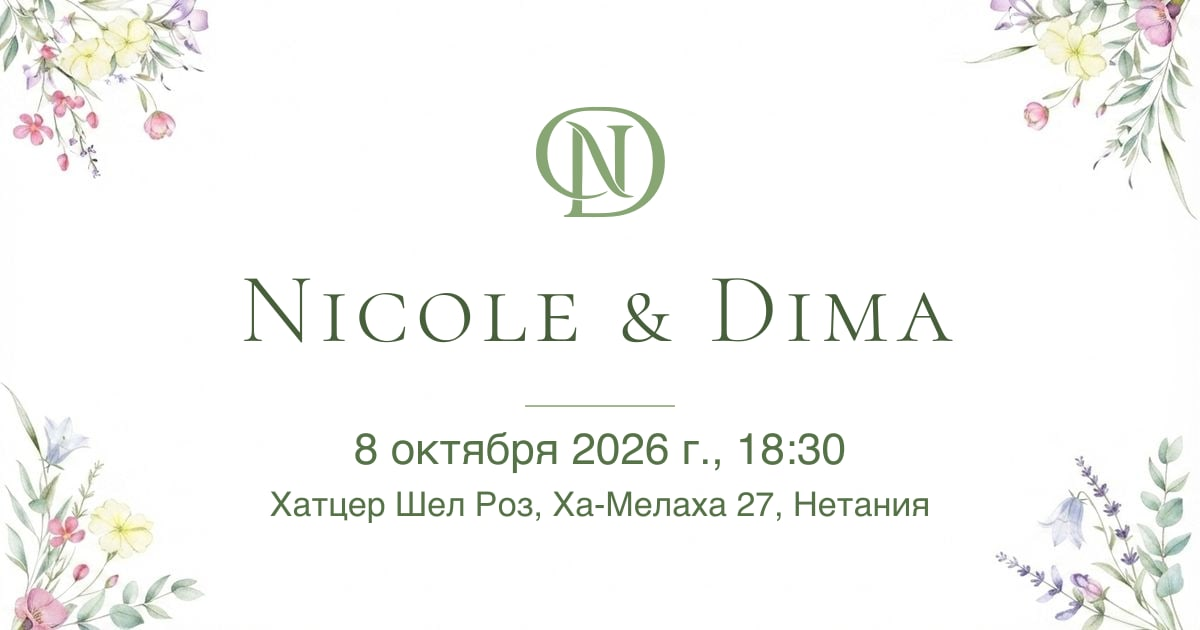
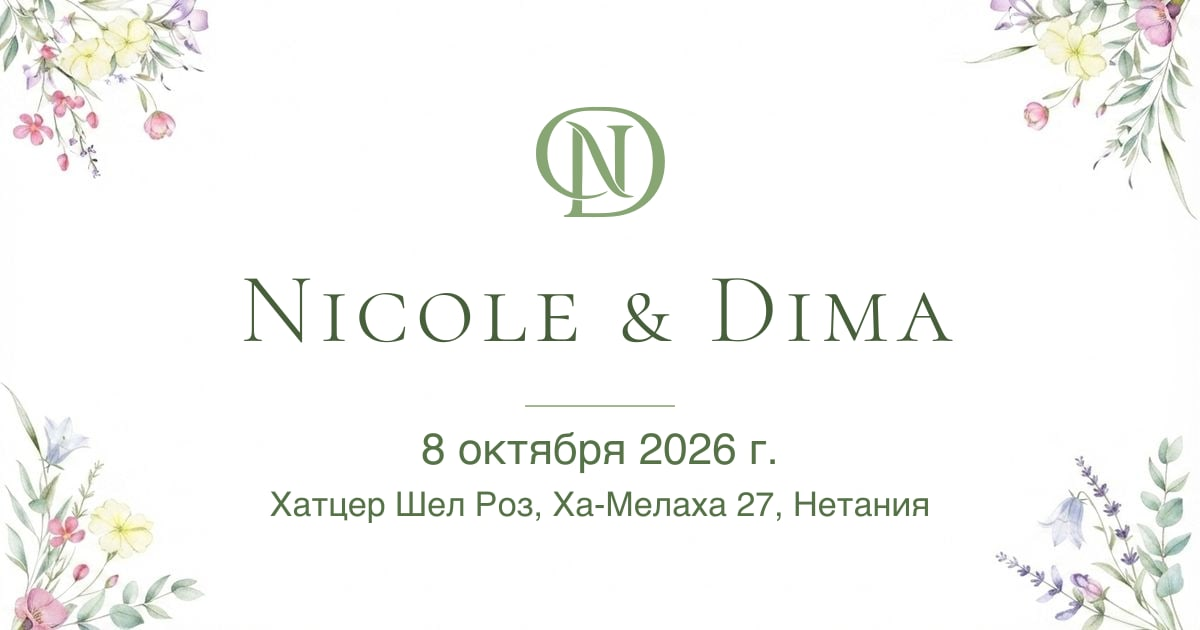
Drop the hour from the WhatsApp preview, and version the card
The preview card paints the date onto the JPEG at build time, so it had been
advertising 18:30 since the cards were last built on 2026-08-02 while every
screen read 19:30. A single hour on the card is wrong in principle as well as
in fact: the time a guest needs is the pair in the admin's message template
(קבלת פנים: 19:30 | חופה: 20:30), which one painted line cannot say. Both the
card and the description beneath it now carry the date alone. The guest page
itself still shows the full date and time.

Rebuilding the card fixed nothing on its own, because WhatsApp caches a preview
image by URL and the path never changed — the corrected card would have shipped
and the old picture kept appearing, with nothing to show why. The image URL now
carries ?v=<content hash>, written into lib/og-card-version.ts by the build
script from the bytes it just produced. Stamping it there rather than bumping a
constant by hand means it cannot drift from the file; hashing the output rather
than the clock means an identical rebuild throws no cache away.

Changed region(s): [[0.2775, 0.6635, 0.7092, 0.754]]

diff --git a/scripts/build-og-card.ts b/scripts/build-og-card.ts
@@ -18,13 +18,14 @@
  * imported by anything under app/ or lib/ that runs at request time.
  */
 
-import { readFileSync, statSync } from 'node:fs'
+import { createHash } from 'node:crypto'
+import { readFileSync, statSync, writeFileSync } from 'node:fs'
 import path from 'node:path'
 import sharp from 'sharp'
 import { createElement } from 'react'
 import { ImageResponse } from 'next/og'
 import { createClient } from '@supabase/supabase-js'
-import { formatDateTime } from '../lib/datetime'
+import { formatDate } from '../lib/datetime'
 import { localeFor } from '../lib/strings'
 import { venueForDisplay } from '../lib/venue'
 import { LANGUAGES, type Language, type WeddingConfig } from '../lib/types'
@@ -149,9 +150,13 @@ async function readCardText(language: Language): Promise<CardText> {
     // The card's own Latin lettering wins; config is the fallback. Identical in
     // both languages — the invitation is lettered "NICOLE & DIMA".
     couple: OG_COUPLE_NAMES.trim() || (data.couple_names ?? '').trim(),
-    // Via lib/datetime, so the card reads the same instant as every screen —
-    // and in the reader's language, which is the point of building two cards.
-    when: formatDateTime(data.wedding_date_time, localeFor(language)),
+    // Via lib/datetime, so the card reads the same day as every screen — and in
+    // the reader's language, which is the point of building two cards. DATE
+    // ONLY, no clock time: the hour a guest needs is the one in the admin's own
+    // message ("קבלת פנים: 19:30 | חופה: 20:30"), and a single time painted on
+    // the card contradicts it. app/page.tsx drops the hour from the line beneath
+    // the picture for the same reason; change them together.
+    when: formatDate(data.wedding_date_time, localeFor(language)),
     // Display, never navigation: the card is read, not tapped (lib/venue.ts).
     venue: venueForDisplay(data as unknown as WeddingConfig, language).trim(),
   }
@@ -330,7 +335,46 @@ async function main(): Promise<void> {
   console.log('')
   }
 
+  writeCardVersion()
+
   console.log('Look at both, then commit them: the cards are served as static files.')
+}
+
+/** Where the generated version lands. Imported by lib/og.ts, never hand-edited. */
+const VERSION_MODULE = 'lib/og-card-version.ts'
+
+/**
+ * Stamps the built cards' content hash into lib/og-card-version.ts.
+ *
+ * WhatsApp caches a preview image by URL. Rebuild a card and serve it from the
+ * same path and the old picture keeps appearing in new chats, silently — the
+ * one failure this whole script cannot otherwise fix. `?v=<hash>` makes a
+ * changed card a different URL.
+ *
+ * Written HERE, from the bytes just produced, rather than bumped by hand: a
+ * version someone has to remember to change is a version that eventually
+ * doesn't. Hashing the output also means a rebuild that produces identical
+ * pixels leaves the file untouched, so caches are not thrown away for nothing.
+ */
+function writeCardVersion(): void {
+  const hash = createHash('sha256')
+  for (const language of LANGUAGES) {
+    hash.update(readFileSync(path.join('public', OG_CARD_PATHS[language].replace(/^\//, ''))))
+  }
+  const version = hash.digest('hex').slice(0, 16)
+
+  const current = readFileSync(VERSION_MODULE, 'utf8')
+  const next = current.replace(
+    /export const OG_CARD_VERSION = '[^']*'/,
+    `export const OG_CARD_VERSION = '${version}'`
+  )
+  if (next === current) {
+    console.log(`Cards unchanged; ${VERSION_MODULE} left at ${version}.`)
+    return
+  }
+
+  writeFileSync(VERSION_MODULE, next)
+  console.log(`${VERSION_MODULE} → ${version}`)
 }
 
 main().catch((error: unknown) => {

diff --git a/app/page.tsx b/app/page.tsx
@@ -10,10 +10,10 @@
 
 import type { Metadata } from 'next'
 import { getConfig, getInviteByToken } from '@/lib/data'
-import { formatDateTime, isRsvpOpen } from '@/lib/datetime'
+import { formatDate, formatDateTime, isRsvpOpen } from '@/lib/datetime'
 import { invitationImageForLanguage } from '@/lib/invitation-image'
 import { buildAbsoluteUrl } from '@/lib/links'
-import { OG_CARD_HEIGHT, OG_CARD_PATHS, OG_CARD_WIDTH, OG_COUPLE_NAMES } from '@/lib/og'
+import { OG_CARD_HEIGHT, OG_CARD_WIDTH, OG_COUPLE_NAMES, ogCardUrl } from '@/lib/og'
 import { venueForDisplay, venueForNavigation } from '@/lib/venue'
 import { guestText, localeFor } from '@/lib/strings'
 import { hasAnswered } from '@/lib/status'
@@ -62,8 +62,10 @@ export async function generateMetadata({ searchParams }: PageProps): Promise<Met
 
   // The Latin form, so the bold line WhatsApp prints matches the card above it.
   const title = OG_COUPLE_NAMES.trim() || config.couple_names.trim() || t.og.untitled
+  // Date only, matching the card above it: the card paints no clock time, and
+  // the hour that matters is the one in the admin's message template.
   const description = t.og.details(
-    formatDateTime(config.wedding_date_time, localeFor(language)),
+    formatDate(config.wedding_date_time, localeFor(language)),
     venueForDisplay(config, language).trim()
   )
   const url = buildAbsoluteUrl('/')
@@ -89,8 +91,9 @@ export async function generateMetadata({ searchParams }: PageProps): Promise<Met
       images: [
         {
           // Absolute. A relative path is not fetched by a crawler, which has no
-          // page context to resolve it against.
-          url: buildAbsoluteUrl(OG_CARD_PATHS[language]),
+          // page context to resolve it against. Versioned, so a rebuilt card is
+          // a new URL and WhatsApp's image cache cannot serve the old one.
+          url: buildAbsoluteUrl(ogCardUrl(language)),
           width: OG_CARD_WIDTH,
           height: OG_CARD_HEIGHT,
           alt: t.og.imageAlt,

diff --git a/lib/og.ts b/lib/og.ts
@@ -1,3 +1,4 @@
+import { OG_CARD_VERSION } from '@/lib/og-card-version'
 import type { Language } from '@/lib/types'
 
 /**
@@ -53,6 +54,21 @@ export const OG_CARD_PATHS: Record<Language, string> = {
 
 /** The Hebrew card, where a single default is needed. */
 export const OG_CARD_PATH = OG_CARD_PATHS.he
+
+/**
+ * THE card's URL, path plus cache-busting version. Never advertise a bare
+ * OG_CARD_PATHS entry.
+ *
+ * WhatsApp caches a preview image by its URL and re-fetches nothing, so a
+ * rebuilt card served from the same path keeps showing the old picture in every
+ * new chat — silently, and for as long as its cache holds. `?v=` is the only
+ * lever: the path is a static file, so there are no response headers of ours to
+ * set. The version is a content hash written by `npm run og-card`, which means
+ * it changes exactly when the picture does and never when it doesn't.
+ */
+export function ogCardUrl(language: Language): string {
+  return `${OG_CARD_PATHS[language]}?v=${OG_CARD_VERSION}`
+}
 
 export const OG_CARD_WIDTH = 1200
 export const OG_CARD_HEIGHT = 630

diff --git a/lib/og-card-version.ts b/lib/og-card-version.ts
@@ -1,0 +1,10 @@
+/**
+ * GENERATED by `npm run og-card`. Do not edit by hand.
+ *
+ * A content hash of the two built cards, appended to the OG image URL as `?v=`.
+ * WhatsApp caches a preview image by URL, so a rebuilt card at the same path is
+ * not re-fetched — the fix ships and the chat keeps showing the old picture,
+ * with nothing to indicate why. The hash changes only when the pixels do, so a
+ * rebuild that changes nothing costs no cache.
+ */
+export const OG_CARD_VERSION = 'da388b467964d2e1'
